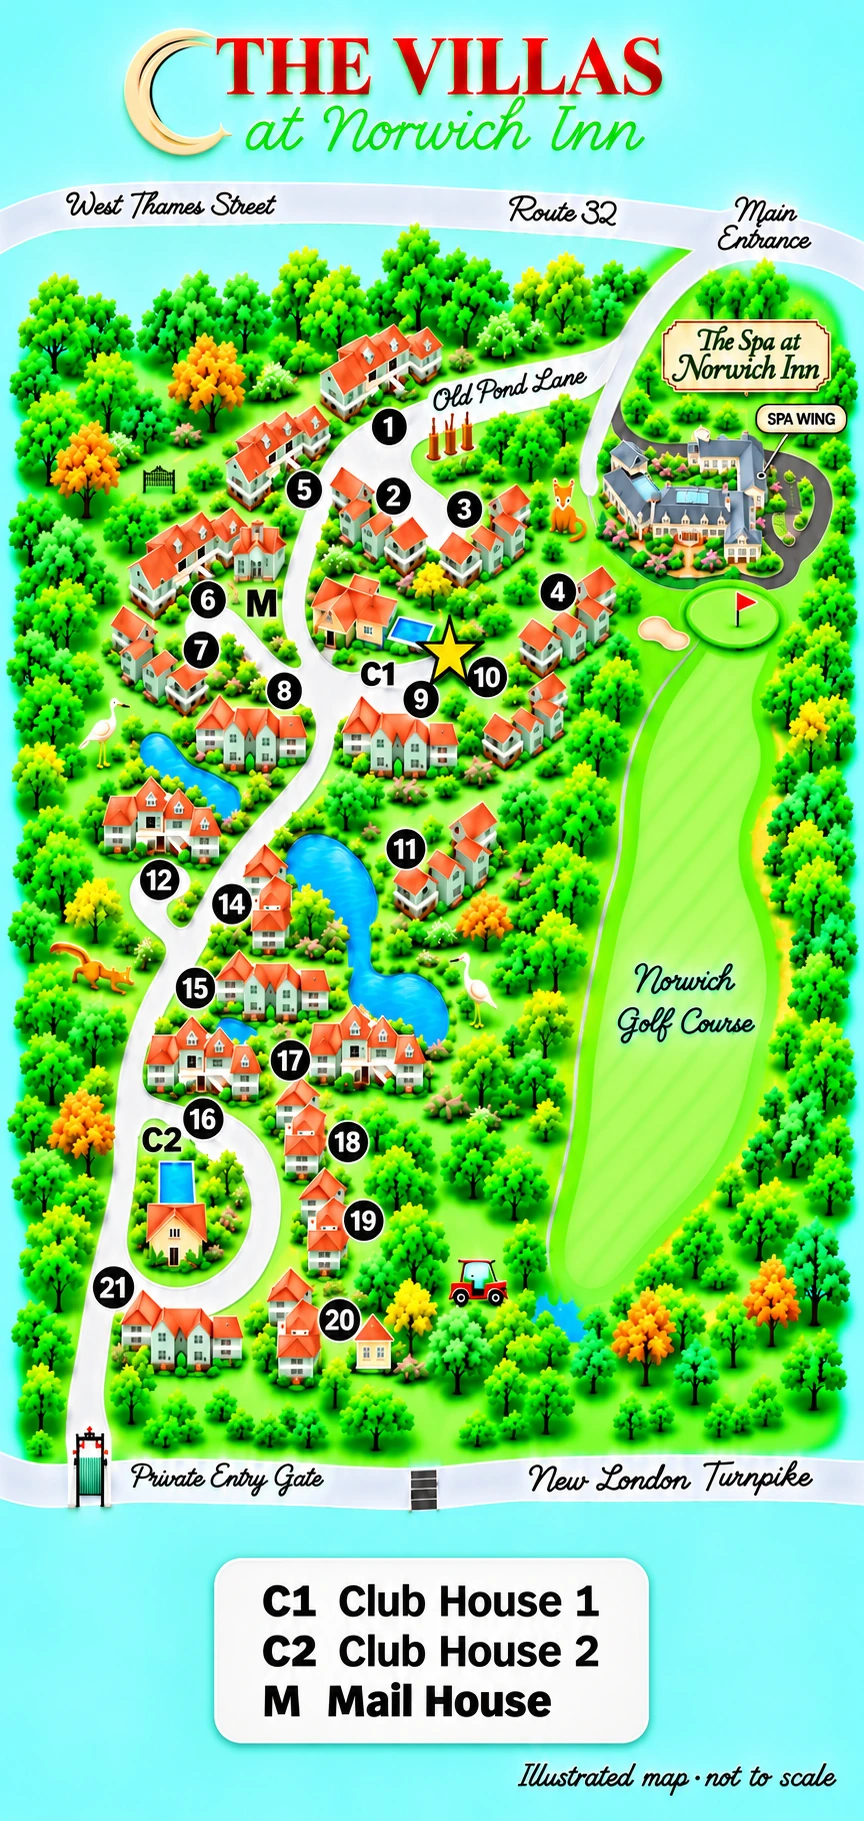
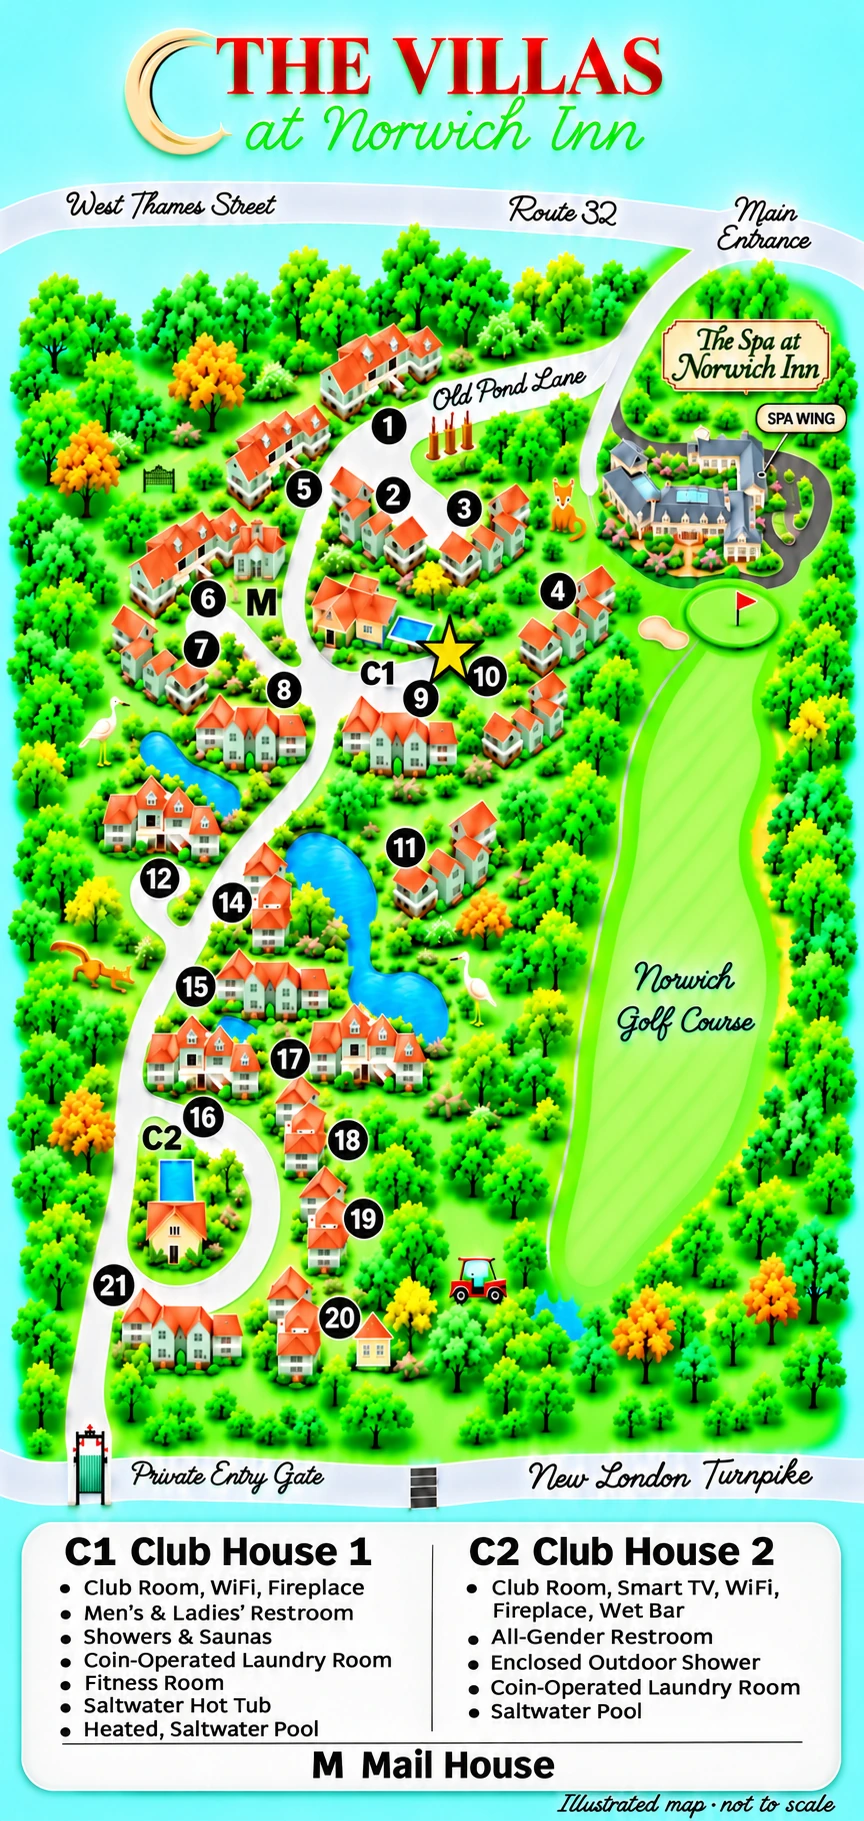
Restore amenities key on corrected portrait property map

diff --git a/property-map.html b/property-map.html
@@ -1,5 +1,5 @@
 <!doctype html>
 <html lang="en"><head><meta charset="utf-8"><meta name="viewport" content="width=device-width,initial-scale=1,viewport-fit=cover"><meta name="robots" content="noindex,nofollow"><meta name="theme-color" content="#f5f1e8"><title>Property map · Villa 1021</title>
 <style>*{box-sizing:border-box}body{margin:0;background:#f5f1e8;color:#171717;font:16px/1.5 -apple-system,BlinkMacSystemFont,"Segoe UI",sans-serif}header,main{max-width:864px;margin:auto}header{padding:12px max(16px,env(safe-area-inset-left)) 8px}nav{display:flex;justify-content:space-between;align-items:center;gap:12px}a,button{color:#75501f;min-height:44px;display:inline-flex;align-items:center;padding:10px 12px;border-radius:10px}button{font:inherit;background:#fff;border:1px solid #ded8cf;cursor:pointer}a:focus-visible,button:focus-visible{outline:3px solid #75501f;outline-offset:2px}h1{font:30px Georgia,serif;margin:12px 0 4px}p{margin:4px 0 12px;color:#645e55}#viewer{width:100%;overflow:auto;-webkit-overflow-scrolling:touch;background:#bcebd8}img{display:block;width:100%;height:auto;max-width:none;cursor:zoom-in}#viewer.zoomed img{width:200%;cursor:zoom-out}footer{max-width:864px;margin:auto;padding:12px 16px max(16px,env(safe-area-inset-bottom))}noscript{display:block;padding:8px}button[hidden]{display:none}</style></head>
-<body><header><nav><a href="./#arrival">← Arrival directions</a><button id="zoom" type="button" aria-pressed="false" aria-controls="viewer" hidden>Zoom in</button></nav><h1>Property map</h1><p>Look for the gold star beside Villa 10. Pinch to zoom, or tap the map.</p></header><main><div id="viewer"><img id="map" src="property-map.webp?v=portrait-green-v2" width="864" height="1821" alt="Portrait property map of the Villas at Norwich Inn. A gold star marks Villa 10 near Clubhouse 1. The spa is beside the main entrance from Route 32; the private entrance is on New London Turnpike." fetchpriority="high"></div><noscript>Pinch to zoom in your browser.</noscript></main><footer><a href="property-map.webp?v=portrait-green-v2">Open full-size image</a></footer>
+<body><header><nav><a href="./#arrival">← Arrival directions</a><button id="zoom" type="button" aria-pressed="false" aria-controls="viewer" hidden>Zoom in</button></nav><h1>Property map</h1><p>Look for the gold star beside Villa 10. Pinch to zoom, or tap the map.</p></header><main><div id="viewer"><img id="map" src="property-map.webp?v=portrait-amenities-v3" width="864" height="1821" alt="Portrait property map of the Villas at Norwich Inn. A gold star marks Villa 10 near Clubhouse 1. The spa is beside the main entrance from Route 32; the private entrance is on New London Turnpike." fetchpriority="high"></div><noscript>Pinch to zoom in your browser.</noscript></main><footer><a href="property-map.webp?v=portrait-amenities-v3">Open full-size image</a></footer>
 <script>const viewer=document.getElementById('viewer'),map=document.getElementById('map'),zoom=document.getElementById('zoom');zoom.hidden=false;function toggle(){const on=viewer.classList.toggle('zoomed');zoom.setAttribute('aria-pressed',String(on));zoom.textContent=on?'Fit to screen':'Zoom in';if(!on)viewer.scrollLeft=0}zoom.addEventListener('click',toggle);map.addEventListener('click',toggle);</script></body></html>
